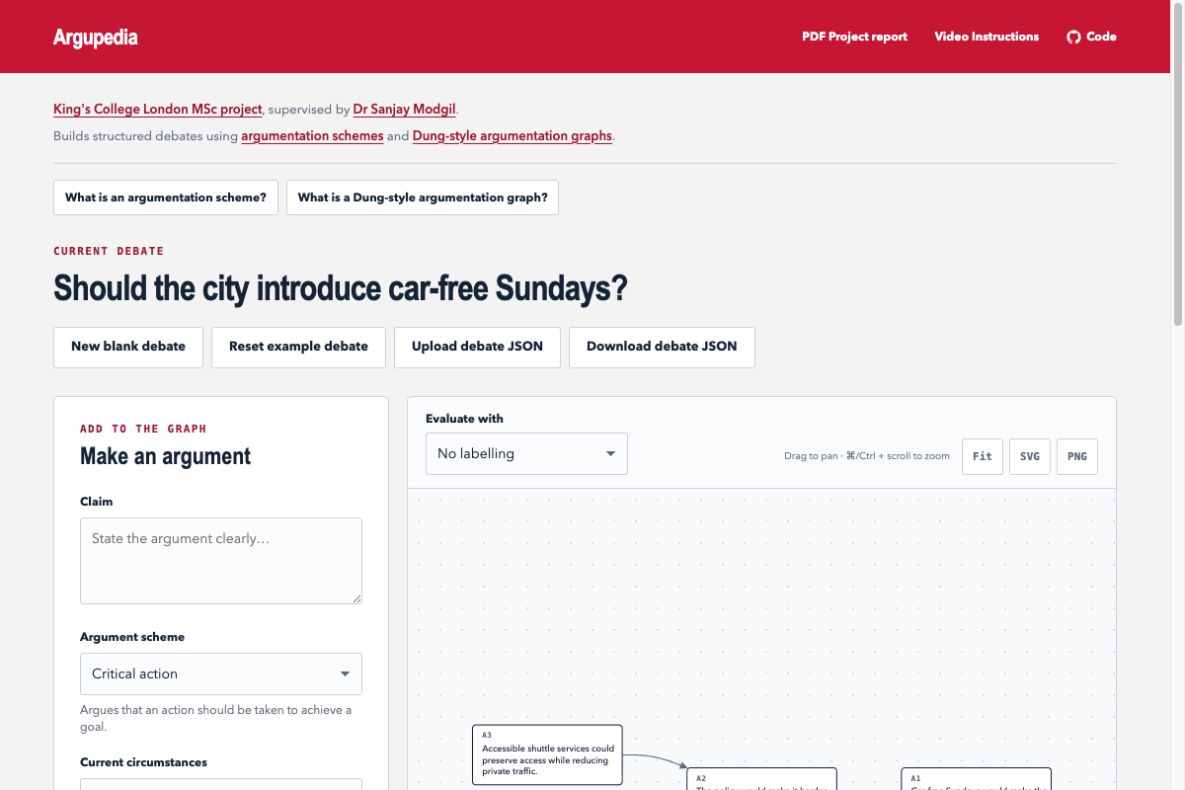
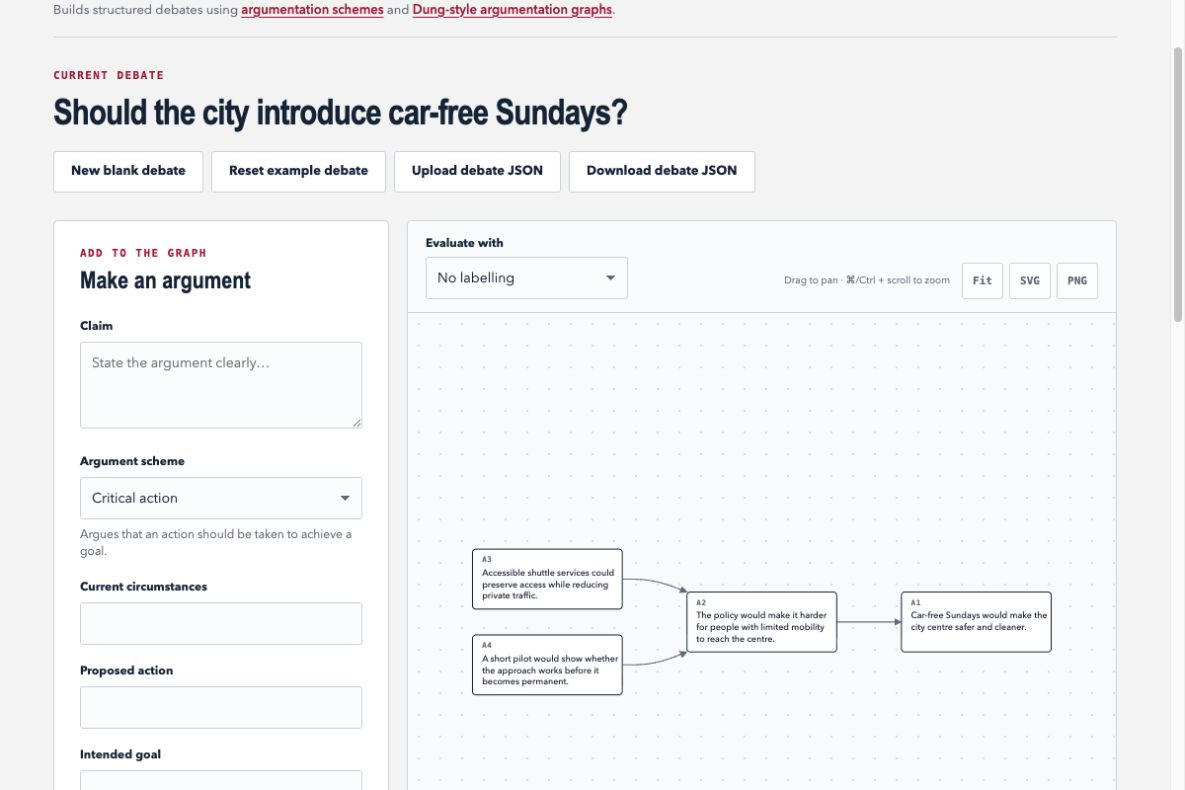
Move concept guides into header

diff --git a/index.html b/index.html
@@ -18,14 +18,20 @@
       <div class="brand-block">
         <a class="wordmark" href="#top" aria-label="Argupedia home">Argupedia</a>
       </div>
-      <nav aria-label="Project links">
-        <a href="./docs/Argupedia-MSc-Project-Report-2021.pdf">PDF Project report</a>
-        <a href="https://youtu.be/1BaNoLEGmrU">Video Instructions</a>
-        <a class="github-link" href="https://github.com/HumphreyCurtis/Argupedia">
-          <svg aria-hidden="true" viewBox="0 0 24 24"><path d="M12 .7a11.5 11.5 0 0 0-3.64 22.41c.58.11.79-.25.79-.56v-2.24c-3.22.7-3.9-1.37-3.9-1.37-.53-1.34-1.29-1.7-1.29-1.7-1.05-.72.08-.71.08-.71 1.16.08 1.78 1.2 1.78 1.2 1.04 1.77 2.71 1.26 3.37.96.1-.75.4-1.26.74-1.55-2.57-.29-5.27-1.28-5.27-5.68 0-1.26.45-2.28 1.19-3.09-.12-.29-.52-1.47.11-3.05 0 0 .97-.31 3.16 1.18a10.9 10.9 0 0 1 5.76 0c2.2-1.49 3.16-1.18 3.16-1.18.63 1.58.23 2.76.11 3.05.74.81 1.19 1.83 1.19 3.09 0 4.41-2.71 5.38-5.29 5.67.42.36.79 1.06.79 2.14v3.18c0 .31.21.67.8.56A11.5 11.5 0 0 0 12 .7Z"/></svg>
-          <span>Code</span>
-        </a>
-      </nav>
+      <div class="header-navigation">
+        <nav class="concept-nav" aria-label="Argumentation concepts">
+          <a href="#argumentation-schemes">What is an argumentation scheme?</a>
+          <a href="#dung-graphs">What is a Dung-style graph?</a>
+        </nav>
+        <nav class="project-nav" aria-label="Project links">
+          <a href="./docs/Argupedia-MSc-Project-Report-2021.pdf">PDF Project report</a>
+          <a href="https://youtu.be/1BaNoLEGmrU">Video Instructions</a>
+          <a class="github-link" href="https://github.com/HumphreyCurtis/Argupedia">
+            <svg aria-hidden="true" viewBox="0 0 24 24"><path d="M12 .7a11.5 11.5 0 0 0-3.64 22.41c.58.11.79-.25.79-.56v-2.24c-3.22.7-3.9-1.37-3.9-1.37-.53-1.34-1.29-1.7-1.29-1.7-1.05-.72.08-.71.08-.71 1.16.08 1.78 1.2 1.78 1.2 1.04 1.77 2.71 1.26 3.37.96.1-.75.4-1.26.74-1.55-2.57-.29-5.27-1.28-5.27-5.68 0-1.26.45-2.28 1.19-3.09-.12-.29-.52-1.47.11-3.05 0 0 .97-.31 3.16 1.18a10.9 10.9 0 0 1 5.76 0c2.2-1.49 3.16-1.18 3.16-1.18.63 1.58.23 2.76.11 3.05.74.81 1.19 1.83 1.19 3.09 0 4.41-2.71 5.38-5.29 5.67.42.36.79 1.06.79 2.14v3.18c0 .31.21.67.8.56A11.5 11.5 0 0 0 12 .7Z"/></svg>
+            <span>Code</span>
+          </a>
+        </nav>
+      </div>
     </header>
 
     <main id="top">
@@ -34,10 +40,6 @@
           <p><a href="https://www.kcl.ac.uk/study/postgraduate-taught/courses/advanced-computing-msc">King's College London MSc project</a>, supervised by <a href="https://www.kcl.ac.uk/people/sanjay-modgil/">Dr Sanjay Modgil</a>.</p>
           <p>Builds structured debates using <a href="#argumentation-schemes">argumentation schemes</a> and <a href="#dung-graphs">Dung-style argumentation graphs</a>.</p>
         </div>
-        <nav class="concept-tabs" aria-label="Argumentation concepts">
-          <a href="#argumentation-schemes">What is an argumentation scheme?</a>
-          <a href="#dung-graphs">What is a Dung-style argumentation graph?</a>
-        </nav>
         <div class="workspace-header">
           <div>
             <p class="section-label">Current debate</p>
@@ -145,11 +147,13 @@
         <section class="concept-notes" aria-label="Argumentation concepts">
           <article id="argumentation-schemes">
             <h3>What is an argumentation scheme?</h3>
-            <p>An argumentation scheme is a recurring pattern of reasoning: a set of premises supports a conclusion, while critical questions expose assumptions that may weaken it. Argupedia uses the selected scheme to structure each contribution and the questions available to challenge it. <a href="https://philosophicaldisquisitions.blogspot.com/2010/03/argumentation-schemes-part-1.html">Argumentation Schemes (Part 1), John Danaher</a>.</p>
+            <p>An argumentation scheme is a recurring pattern of everyday reasoning. It sets out the premises that normally support a conclusion—for example, relying on expert opinion, drawing an analogy or predicting the consequences of an action. Unlike a deductive proof, the conclusion is open to challenge when new information appears.</p>
+            <p>Each scheme therefore comes with critical questions that expose its weaker assumptions: is the expert credible, are the two cases genuinely similar, or could the proposed action produce different consequences? Argupedia uses the selected scheme to structure a contribution, then offers relevant questions when another argument challenges it. <a href="https://philosophicaldisquisitions.blogspot.com/2010/03/argumentation-schemes-part-1.html">Argumentation Schemes (Part 1), John Danaher</a>.</p>
           </article>
           <article id="dung-graphs">
             <h3>What is a Dung-style argumentation graph?</h3>
-            <p>A Dung-style framework represents arguments as nodes and attacks between them as directed arrows. Formal semantics can then identify which arguments are accepted, rejected or undecided from the pattern of attacks—not simply declare which speaker “won”. <a href="https://en.wikipedia.org/wiki/Argumentation_framework">Introduction to argumentation frameworks</a>.</p>
+            <p>A Dung-style argumentation framework strips a debate back to two elements: a set of arguments and the attack relationships between them. In the graph, each argument becomes a node and each attack becomes a directed arrow. This makes the structure of a disagreement visible without assuming that one claim is true simply because it was entered first or stated most forcefully.</p>
+            <p>Formal semantics then evaluate how arguments defend and defeat one another. Argupedia can apply grounded, complete or preferred semantics and label arguments as accepted, rejected or undecided. These labels describe defensible positions within the graph; they do not provide an objective verdict on which person has “won” the debate. <a href="https://en.wikipedia.org/wiki/Argumentation_framework">Introduction to argumentation frameworks</a>.</p>
           </article>
         </section>
       </section>

diff --git a/src/styles.css b/src/styles.css
@@ -30,7 +30,9 @@ a:hover { color: var(--red); }
 .brand-block { display: flex; align-items: center; min-width: 0; }
 .wordmark { font: 800 22px/1 var(--display); letter-spacing: -.02em; color: var(--white); text-decoration: none; }
 .wordmark:hover { color: var(--white); }
-.site-header nav { display: flex; gap: 28px; }
+.header-navigation { display: flex; align-items: center; min-width: 0; }
+.site-header nav { display: flex; align-items: center; gap: 24px; }
+.concept-nav { margin-right: 24px; padding-right: 24px; border-right: 1px solid rgba(255,255,255,.48); }
 .site-header nav a { color: var(--white); text-decoration: none; font-size: 12px; font-weight: 650; white-space: nowrap; }
 .site-header nav a:hover { text-decoration: underline; }
 .github-link { display: inline-flex; align-items: center; gap: 5px; }
@@ -49,9 +51,6 @@ a:hover { color: var(--red); }
 .project-context p { margin: 0; }
 .project-context p + p { margin-top: 7px; }
 .project-context a { font-weight: 600; }
-.concept-tabs { display: flex; flex-wrap: wrap; gap: 8px; margin: -16px 0 30px; }
-.concept-tabs a { padding: 8px 11px; color: var(--ink); background: var(--white); border: 1px solid var(--line); border-radius: 3px; font-size: 12px; font-weight: 650; text-decoration: none; }
-.concept-tabs a:hover { color: var(--red-dark); border-color: var(--red); }
 .workspace-header { display: flex; align-items: flex-start; flex-direction: column; gap: 18px; margin-bottom: 28px; }
 .workspace-header .section-label { margin-bottom: 10px; }
 #workspace-title { min-width: 260px; margin: 0; font: 750 clamp(27px, 3vw, 42px)/1.12 var(--display); letter-spacing: -.025em; border-bottom: 1px dashed transparent; }
@@ -116,10 +115,12 @@ select { appearance: none; background-image: linear-gradient(45deg,transparent 5
 .remove-argument { color: var(--muted); background: none; border: 0; padding: 4px; font-size: 11px; text-decoration: underline; text-underline-offset: 3px; cursor: pointer; }
 .remove-argument:hover { color: var(--rejected); }
 
-.concept-notes { display: grid; grid-template-columns: repeat(2, minmax(0, 1fr)); gap: 28px; margin-top: 28px; padding-top: 24px; border-top: 1px solid var(--line); }
-.concept-notes article { scroll-margin-top: 18px; }
-.concept-notes h3 { margin: 0 0 7px; font: 700 18px/1.25 var(--display); }
-.concept-notes p { margin: 0; max-width: 68ch; color: var(--muted); font-size: 13px; }
+.concept-notes { margin-top: 28px; }
+.concept-notes article { padding: 28px 0; border-top: 1px solid var(--line); scroll-margin-top: 18px; }
+.concept-notes article:last-child { border-bottom: 1px solid var(--line); }
+.concept-notes h3 { margin: 0 0 11px; font: 700 20px/1.25 var(--display); }
+.concept-notes p { margin: 0; max-width: 88ch; color: var(--muted); font-size: 13px; }
+.concept-notes p + p { margin-top: 9px; }
 .concept-notes a { font-weight: 600; }
 
 .toast { position: fixed; left: 50%; bottom: 24px; z-index: 50; padding: 12px 17px; color: white; background: var(--ink); border-radius: 3px; font-size: 13px; transform: translate(-50%, 20px); opacity: 0; pointer-events: none; transition: .2s ease; }
@@ -127,6 +128,7 @@ select { appearance: none; background-image: linear-gradient(45deg,transparent 5
 .toast.error { background: var(--rejected); }
 
 @media (max-width: 920px) {
+  .concept-nav { display: none !important; }
   .workspace-grid { grid-template-columns: 1fr; }
   .composer { order: 2; }
   .graph-panel { order: 1; min-height: 600px; }
@@ -134,8 +136,8 @@ select { appearance: none; background-image: linear-gradient(45deg,transparent 5
 
 @media (max-width: 620px) {
   .site-header { min-height: 62px; padding-top: 10px; padding-bottom: 10px; }
-  .site-header nav { gap: 14px; }
-  .site-header nav a:nth-child(2) { display: none; }
+  .project-nav { gap: 14px !important; }
+  .project-nav a:nth-child(2) { display: none; }
   .workspace { padding-top: 20px; }
   .project-context { margin-bottom: 24px; font-size: 12px; }
   .workspace-header { align-items: flex-start; flex-direction: column; }
@@ -151,8 +153,6 @@ select { appearance: none; background-image: linear-gradient(45deg,transparent 5
   .legend { gap: 10px; flex-wrap: wrap; }
   .argument-list li { grid-template-columns: 38px 1fr; }
   .remove-argument { grid-column: 2; justify-self: start; padding-left: 0; }
-  .concept-tabs { display: grid; grid-template-columns: 1fr; }
-  .concept-notes { grid-template-columns: 1fr; gap: 24px; }
 }
 
 @media (prefers-reduced-motion: reduce) {
